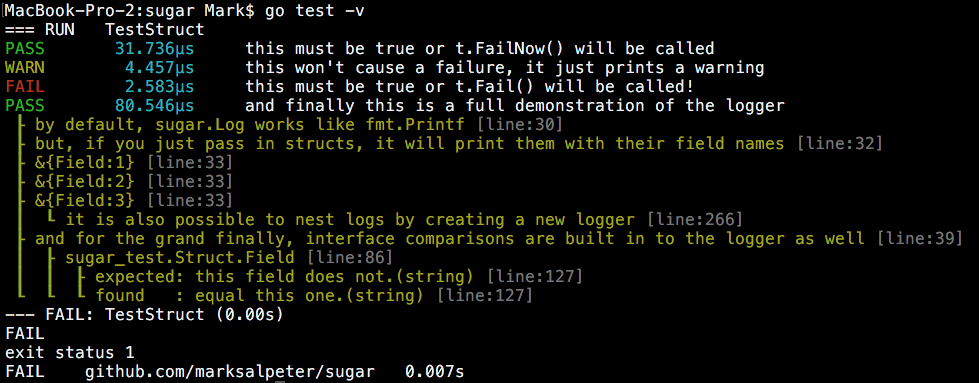
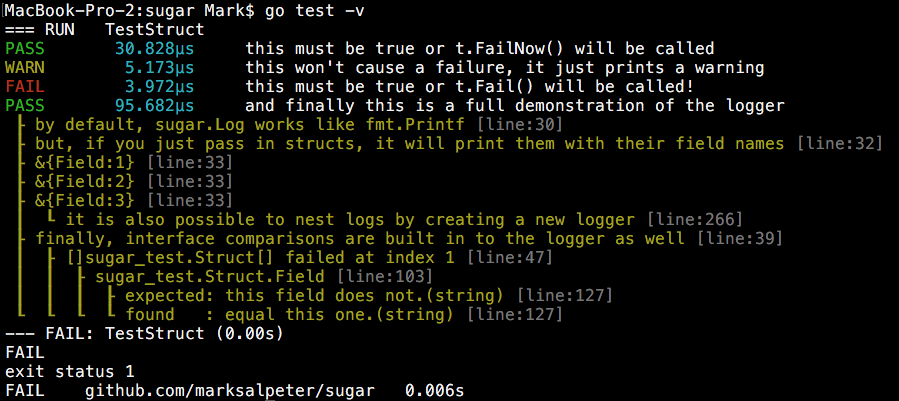
improved example

Changed region(s): [[0.0, 0.0, 0.9967, 1.0]]

diff --git a/sugar_test.go b/sugar_test.go
@@ -36,9 +36,15 @@ func TestStruct(t *testing.T) {
 		nestedLogger.Log("it is also possible to nest logs by creating a new logger")
 		log(nestedLogger)
 
-		log("and for the grand finally, interface comparisons are built in to the logger as well")
+		log("finally, interface comparisons are built in to the logger as well")
 		nestedLogger = sugar.NewLogger()
-		if !nestedLogger.Compare(&Struct{Field: "this field does not"}, &Struct{Field: "equal this one"}) {
+		if !nestedLogger.Compare([]Struct{
+			Struct{Field: "this equals the other one"},
+			Struct{Field: "this field does not"},
+		}, []Struct{
+			Struct{Field: "this equals the other one"},
+			Struct{Field: "equal this one"},
+		}) {
 			log(nestedLogger)
 		}
 

diff --git a/Logger.go b/Logger.go
@@ -101,7 +101,7 @@ func (l *logger) Compare(a, b interface{}) bool {
 		for i, len := 0, aValue.Len(); i < len; i++ {
 			nestedLogger := NewLogger()
 			if !nestedLogger.Compare(aValue.Index(i).Interface(), bValue.Index(i).Interface()) {
-				l.Log("%s failed at index %d", aValue.Type(), i)
+				l.Log("%s[] failed at index %d", aValue.Type(), i)
 				l.Log(nestedLogger)
 				return false
 			}

diff --git a/README.md b/README.md
@@ -50,9 +50,15 @@ func TestStruct(t *testing.T) {
 		nestedLogger.Log("it is also possible to nest logs by creating a new logger")
 		log(nestedLogger)
 
-		log("and for the grand finally, interface comparisons are built in to the logger as well")
+		log("finally, interface comparisons are built in to the logger as well")
 		nestedLogger = sugar.NewLogger()
-		if !nestedLogger.Compare(&Struct{Field: "this field does not"}, &Struct{Field: "equal this one"}) {
+		if !nestedLogger.Compare([]Struct {
+				Struct{Field: "this equals the other one"},
+				Struct{Field: "this field does not"},
+			}, []Struct {
+				Struct{Field: "this equals the other one"},
+				Struct{Field: "equal this one"},
+			}) {
 			log(nestedLogger)
 		}
 
